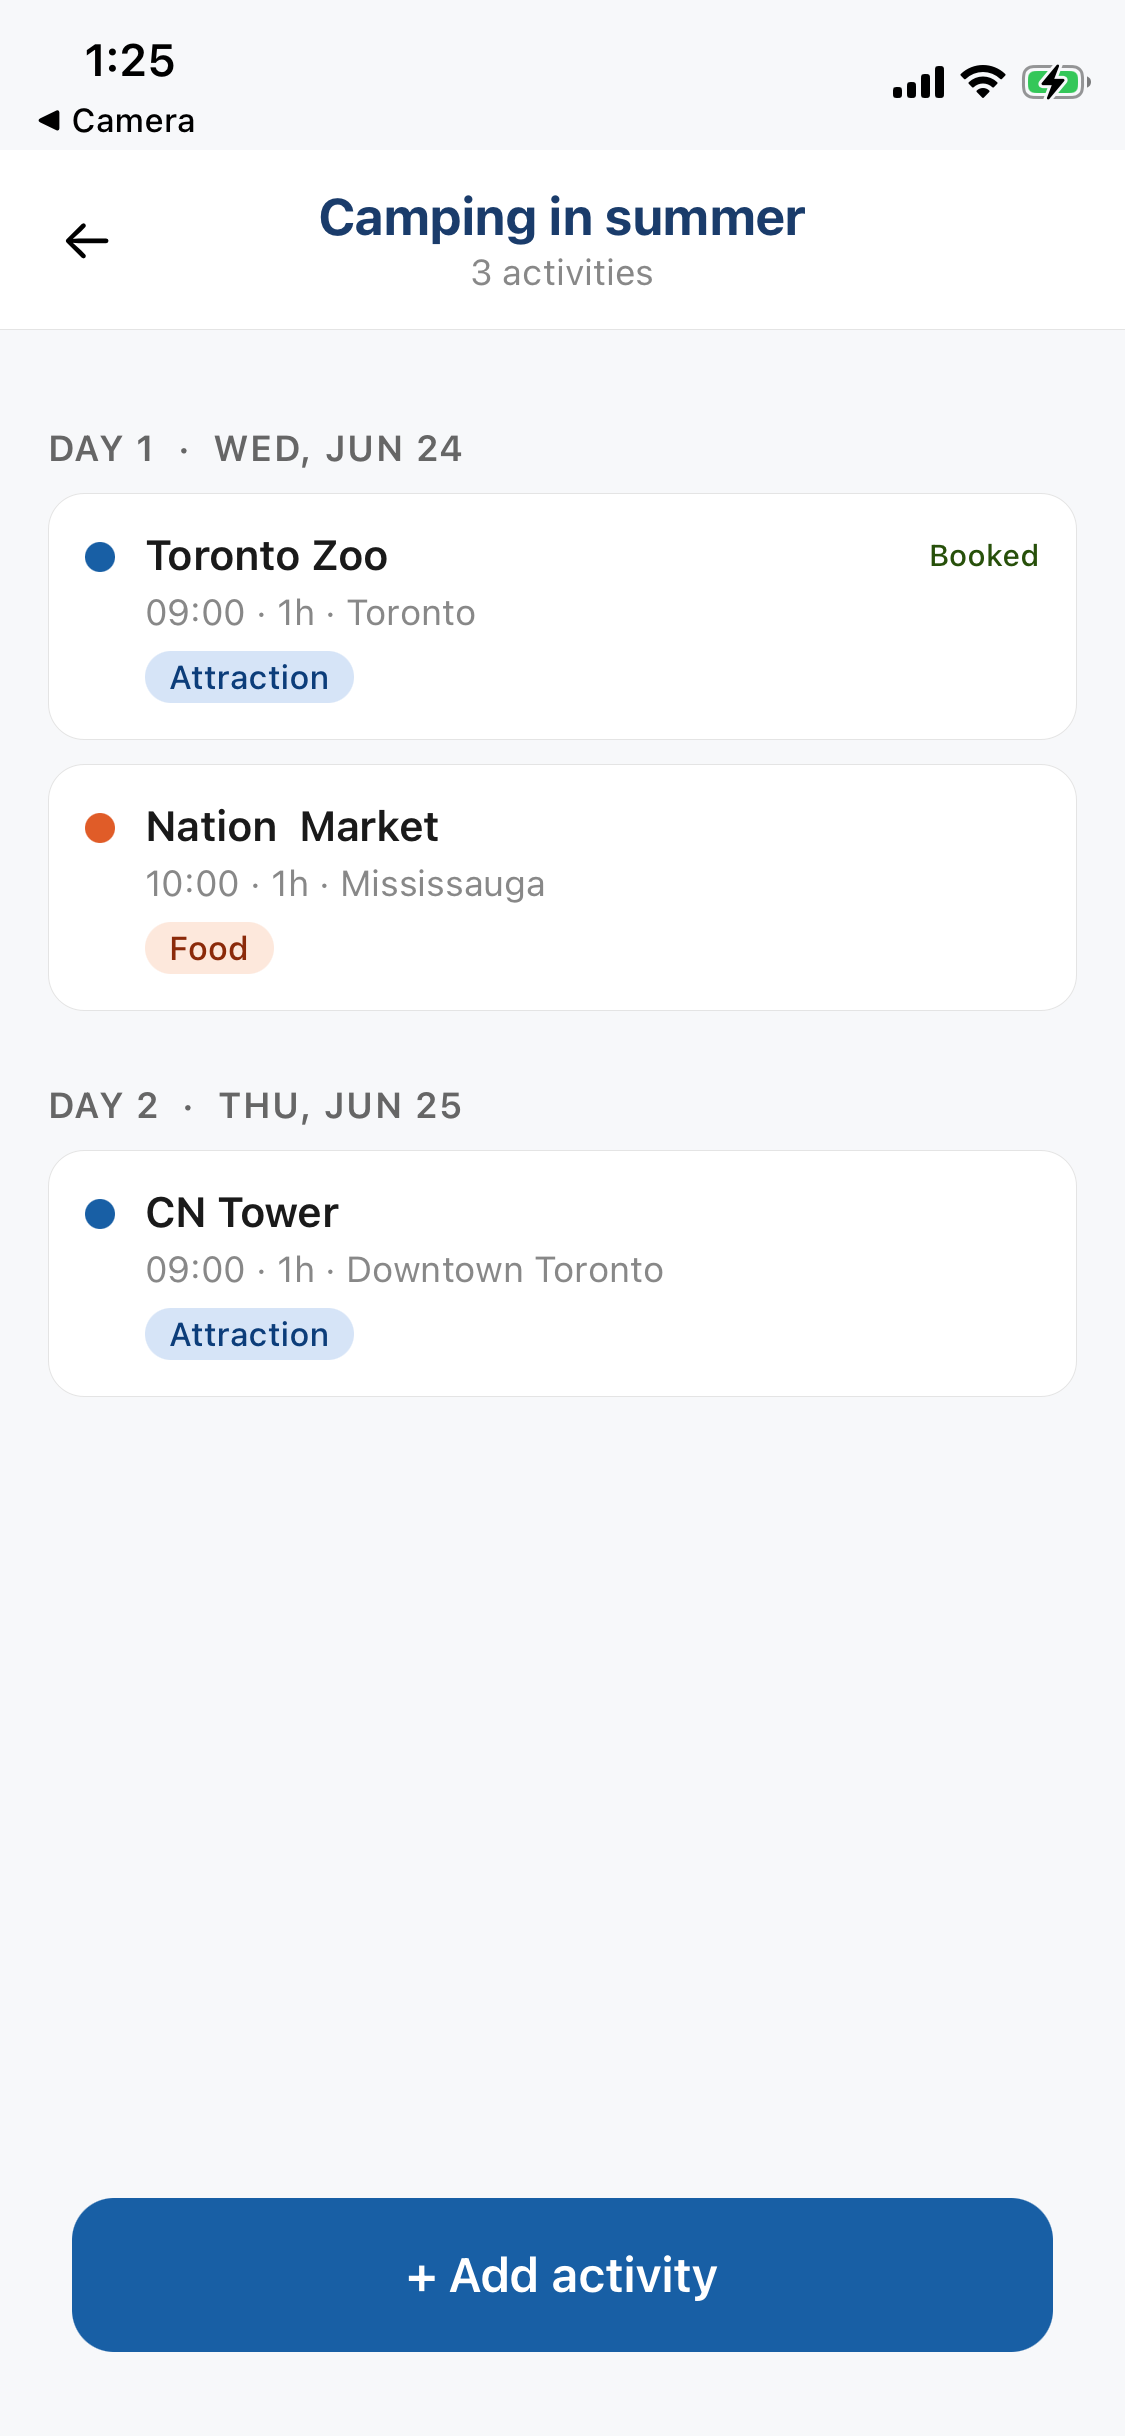
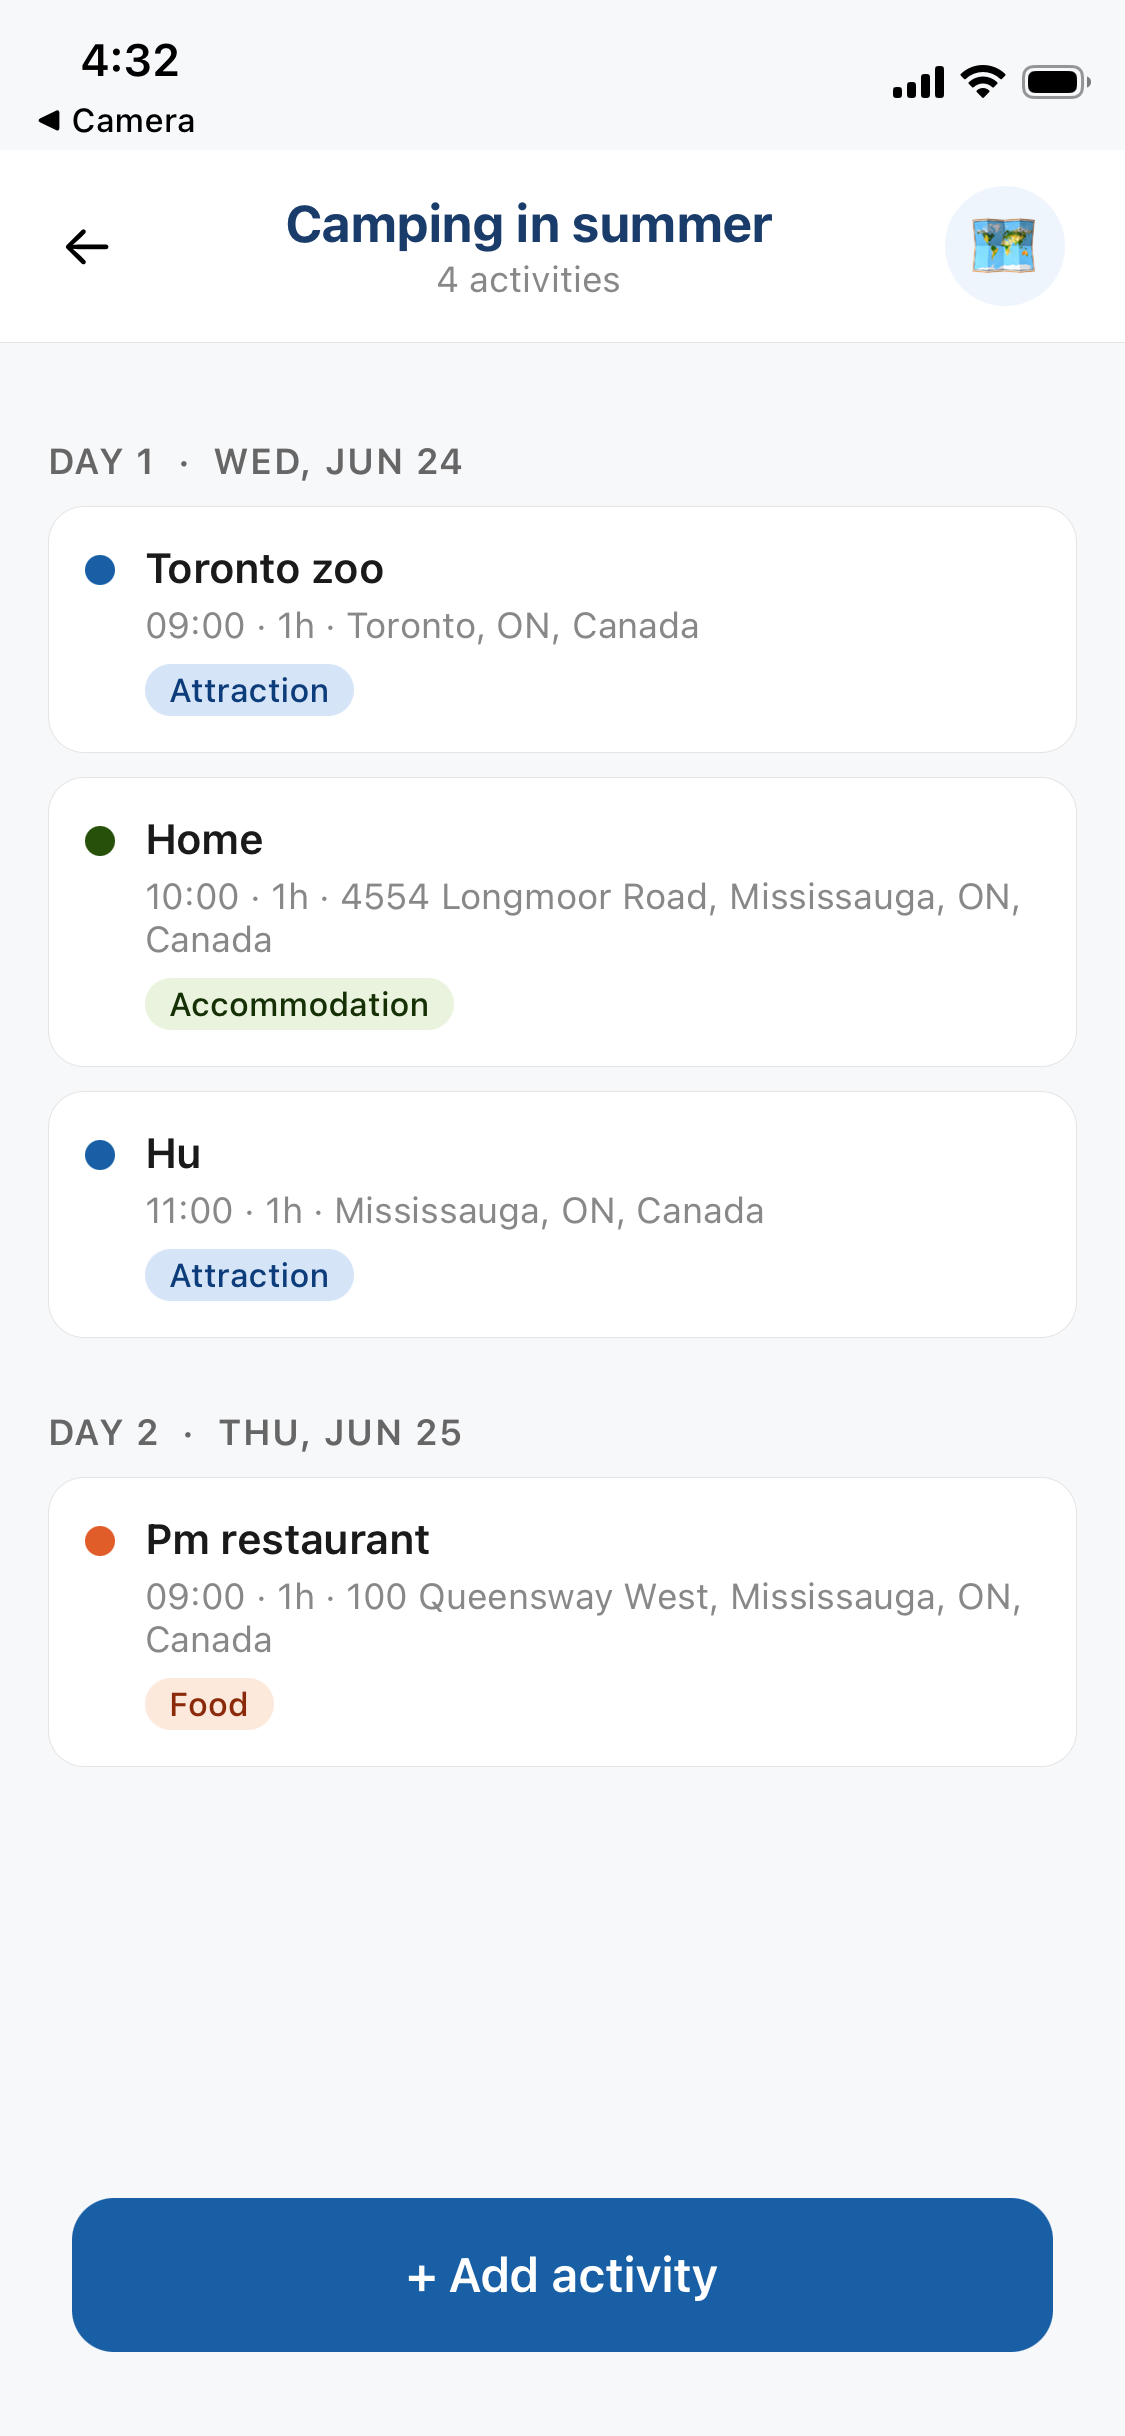
Update READMe.md with maps-location branch

diff --git a/README.md b/README.md
@@ -5,28 +5,33 @@ A mobile app for planning, organizing, and remembering every personal trip — b
 ## Features
 
 #### Authentication
-- **Welcome screen**: clean entry point with Get started and Sign in flows
-- **Sign up screen**: create an account with name, email, and password; profile saved to Firestore
-- **Login screen**: sign in with email and password; show/hide password toggle
-- **Persistent session**: Firebase Auth remembers you across app restarts
-- **Auto-redirect**: RouteGuard sends logged-in users straight to Home, logged-out users to Welcome
+- User registration and login
+- Persistent session across app restarts
+- Auto-redirect based on auth state
 
 #### Trip management
-- **Home screen**: lists all your trips with status badges (Upcoming / Active / Completed), and empty state
-- **Create trip screen**: trip name, multi-destination adding, start/end dates with live day count, and total budget
-- **Trip summary screen**: destination info, budget progress bar, per-day cost estimates broken down by category, over-budget warning
-
-#### Security
-- **User profiles**: read and write locked to the authenticated owner (`request.auth.uid == userId`)
-- **Trips**: create requires the `userId` field to match the caller; read, update, and delete verify ownership against the stored `userId`
-- **Activities**: create verifies the parent trip belongs to the caller; read, update, and delete look up the existing activity's trip and verify the same ownership chain
-- No unauthenticated access is permitted to any collection
-
+- Create and manage trips
+- Add multiple destinations
+- Set start/end dates and total budget
+- View budget breakdown and cost estimates
+- Delete trips with confirmation
 
 #### Itinerary management
-- **Activities screen**: all activities grouped by day with Day N headers, category color-coded cards (Food, Transport, Attraction, Accommodation)
-- **Add activity screen**: title, location, category picker, date (YYYY-MM-DD), time (HH:MM), duration in minutes with live human-readable preview
-- **Edit activity screen**: update or delete any activity; mark as booked with confirmation number, provider name, and provider URL
+- View activities grouped by day
+- Add, edit, and delete activities
+- Category tags: Food, Transport, Attraction, Accommodation
+- Mark activities as booked with confirmation details
+
+#### Map and location
+- Google Places autocomplete when adding an activity location
+- View all activity pins on an interactive Google Map
+- Filter pins by category
+- Route polyline connecting pins in chronological order
+- Tap a pin to see activity details
+
+#### Security
+- Firestore rules lock all data to the authenticated owner
+- Users, trips, and activities each enforce ownership checks
 
 ## Screenshots
 
@@ -36,9 +41,9 @@ A mobile app for planning, organizing, and remembering every personal trip — b
 | Entry point with Get started and Sign in | Email + password with show/hide toggle | Name, email, password, confirm password |
 
 | Home | Create trip | Trip summary |
-|---------|-------|---------|
-| <img src="assets/Home.PNG" width="200"/> | <img src="assets/Createtrip.PNG" width="200"/> | <img src="assets/TripSummary.PNG" width="200"/> |
-| Trip cards with status badges | Destinations, date range, budget | Budget bar, cost per category |
+|------|-------------|-------------|
+| <img src="assets/Home.PNG" width="200" style="margin-right:45px"/> | <img src="assets/Createtrip.PNG" width="200"/> | <img src="assets/TripSummary.PNG" width="200"/> |
+| All trips listed with status badges | Name, destinations, date range, budget | Budget bar and cost estimates breakdown |
 
 
 | Activities | Add activity | Edit activity |
@@ -46,7 +51,10 @@ A mobile app for planning, organizing, and remembering every personal trip — b
 | <img src="assets/Activities.PNG" width="200"/> | <img src="assets/Add-activity.PNG" width="200"/> | <img src="assets/Edit-activity.PNG" width="200"/> |
 | Day-grouped list with category color dots | Title, location, category, date, time, duration | Update fields, mark as booked, and delete |
 
----
+| Trip Map |
+|---------|
+| <img src="assets/TripMap.PNG" width="200"/> |
+| Pins/filter by category, route polyline |
 
 ## Tech stack
 
@@ -57,6 +65,8 @@ A mobile app for planning, organizing, and remembering every personal trip — b
 | Routing | Expo Router v6 | File-based screen navigation |
 | Auth | Firebase Authentication | Email/password login and session |
 | Database | Cloud Firestore | Real-time trip data storage |
+| Maps | react-native-maps + Google Maps SDK | Interactive map with custom markers |
+| Location search | Google Places API | Activity location autocomplete and coordinates |
 | Safe areas | react-native-safe-area-context | Notch and home bar handling |
 
 
@@ -85,6 +95,7 @@ EXPO_PUBLIC_FIREBASE_PROJECT_ID=
 EXPO_PUBLIC_FIREBASE_STORAGE_BUCKET=
 EXPO_PUBLIC_FIREBASE_MESSAGING_SENDER_ID=
 EXPO_PUBLIC_FIREBASE_APP_ID=
+EXPO_PUBLIC_GOOGLE_MAPS_API_KEY=
 ```
 
 ### 3. Firebase setup
